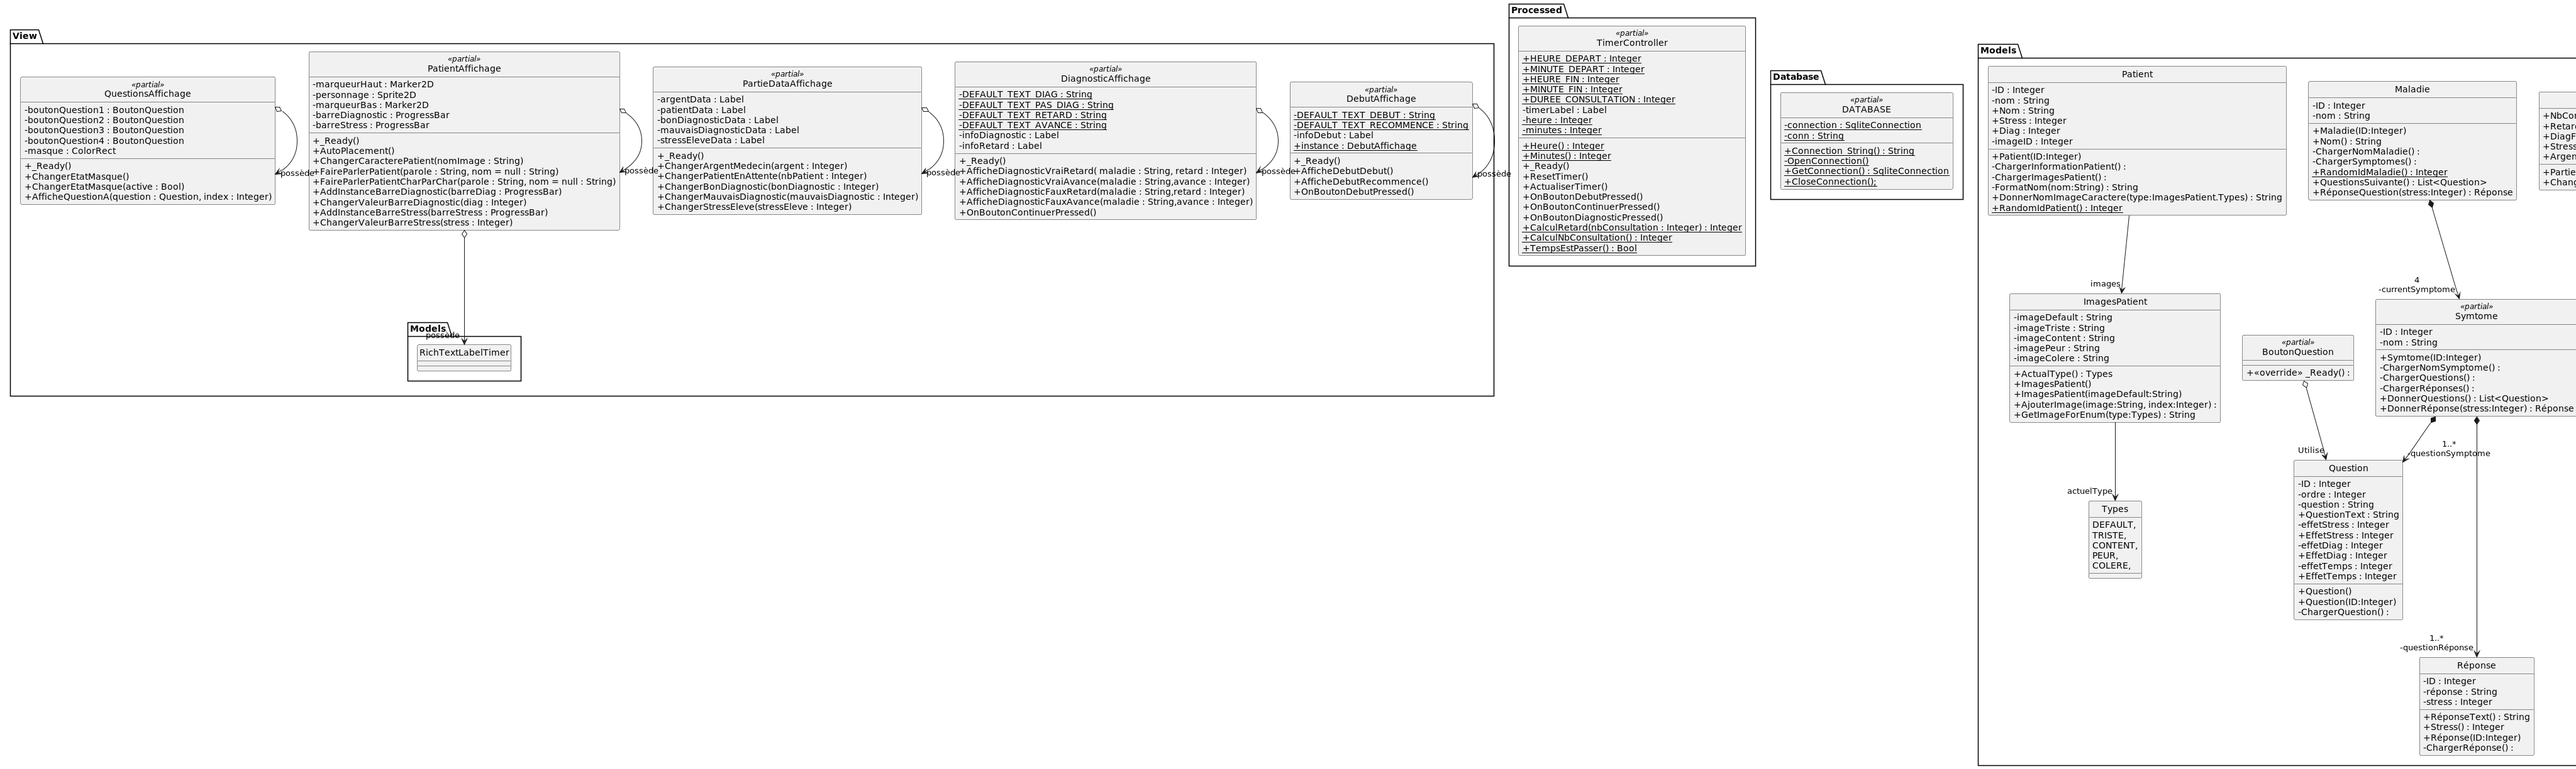
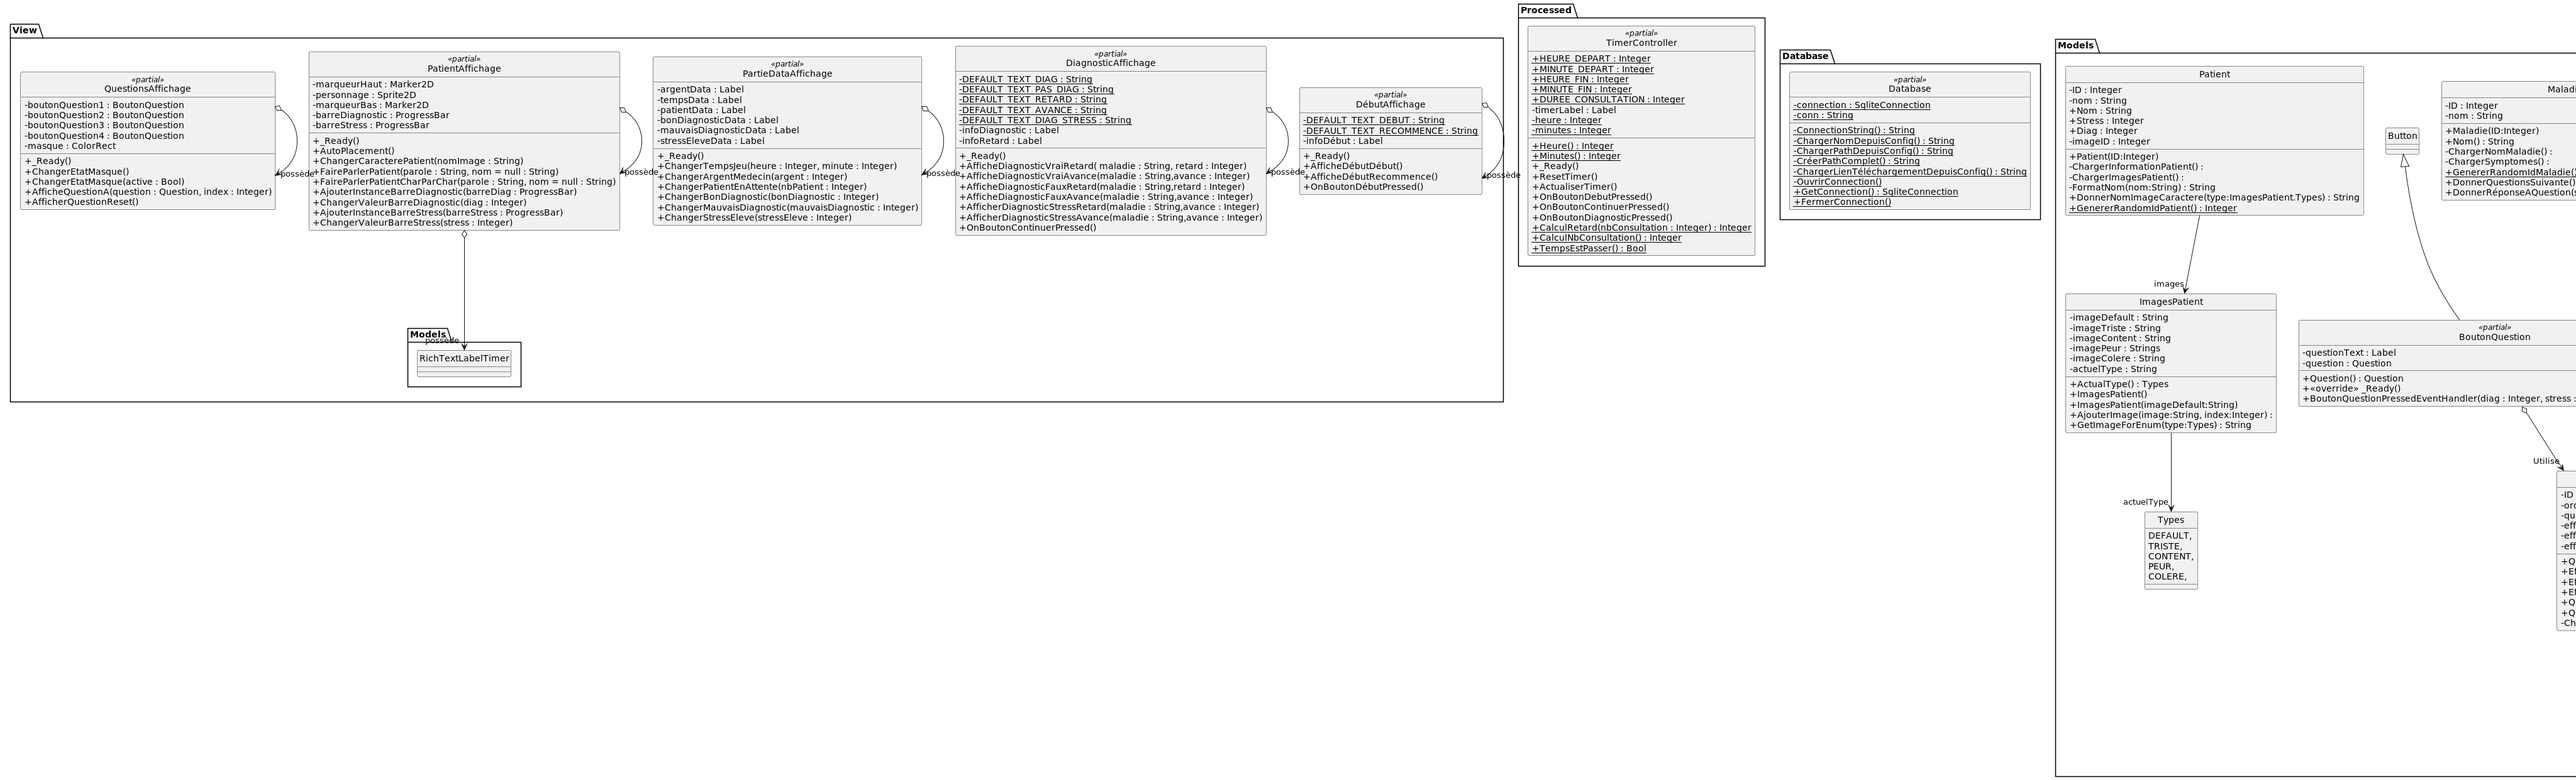
Mise à jour uml et mcd dans CdC

diff --git a/Cahier_Des_Charges.md b/Cahier_Des_Charges.md
@@ -111,9 +111,9 @@ Liste, MCD ou diagramme de classe décrivant le jeu, et en particulier les entit
 
 
 ### MCD de la base de données :
-![mcdbdd](img/mcdbdd.png)
+![mcdbdd](img/mcdbdd.svg)
 ### UML du projet :
-![uml](img/uml.png)
+![uml](img/uml.svg)
 
 ## Description des fonctionnalités
 ### Actions du joueur
